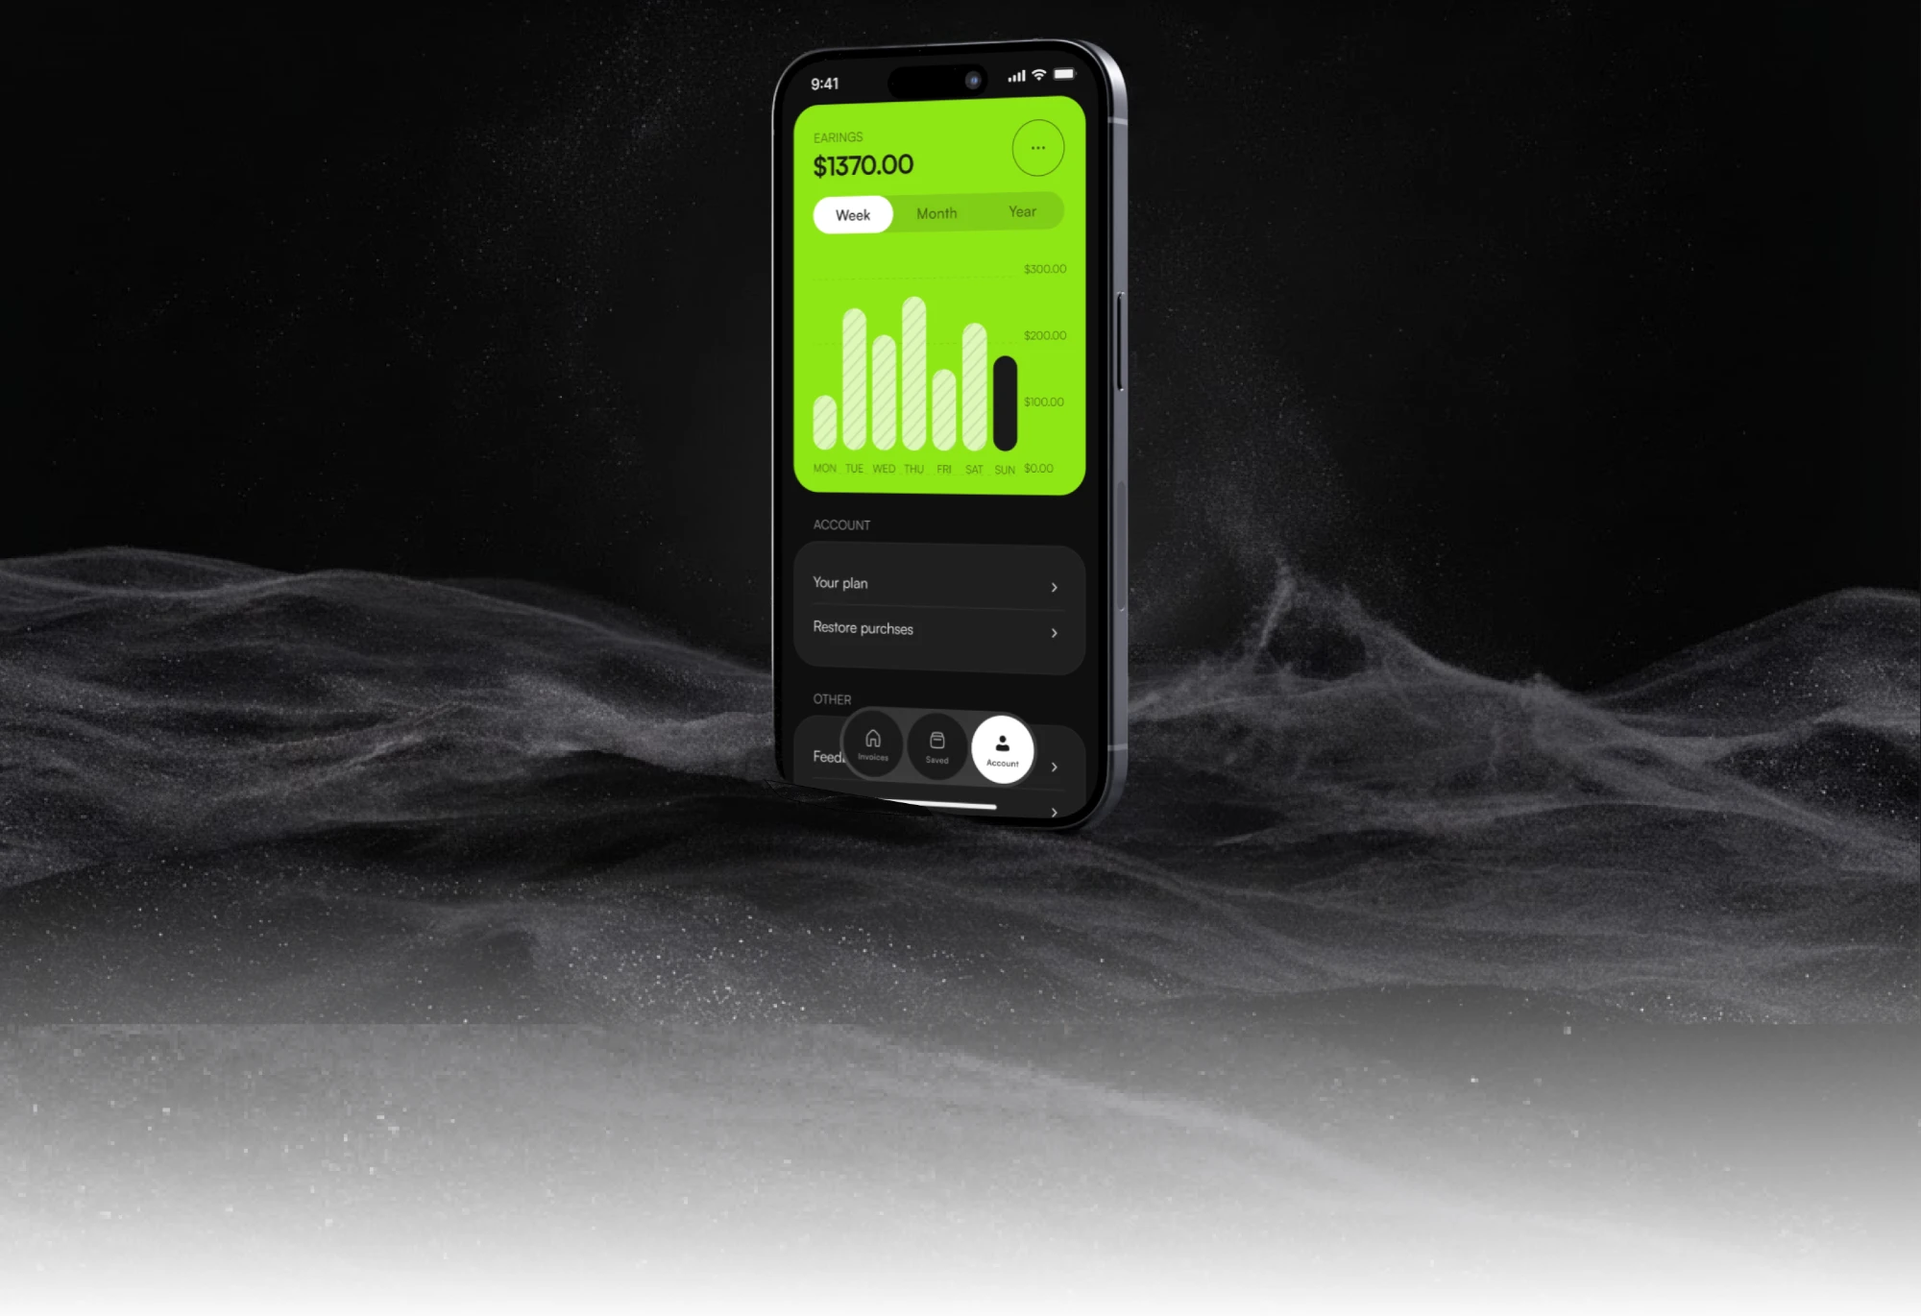
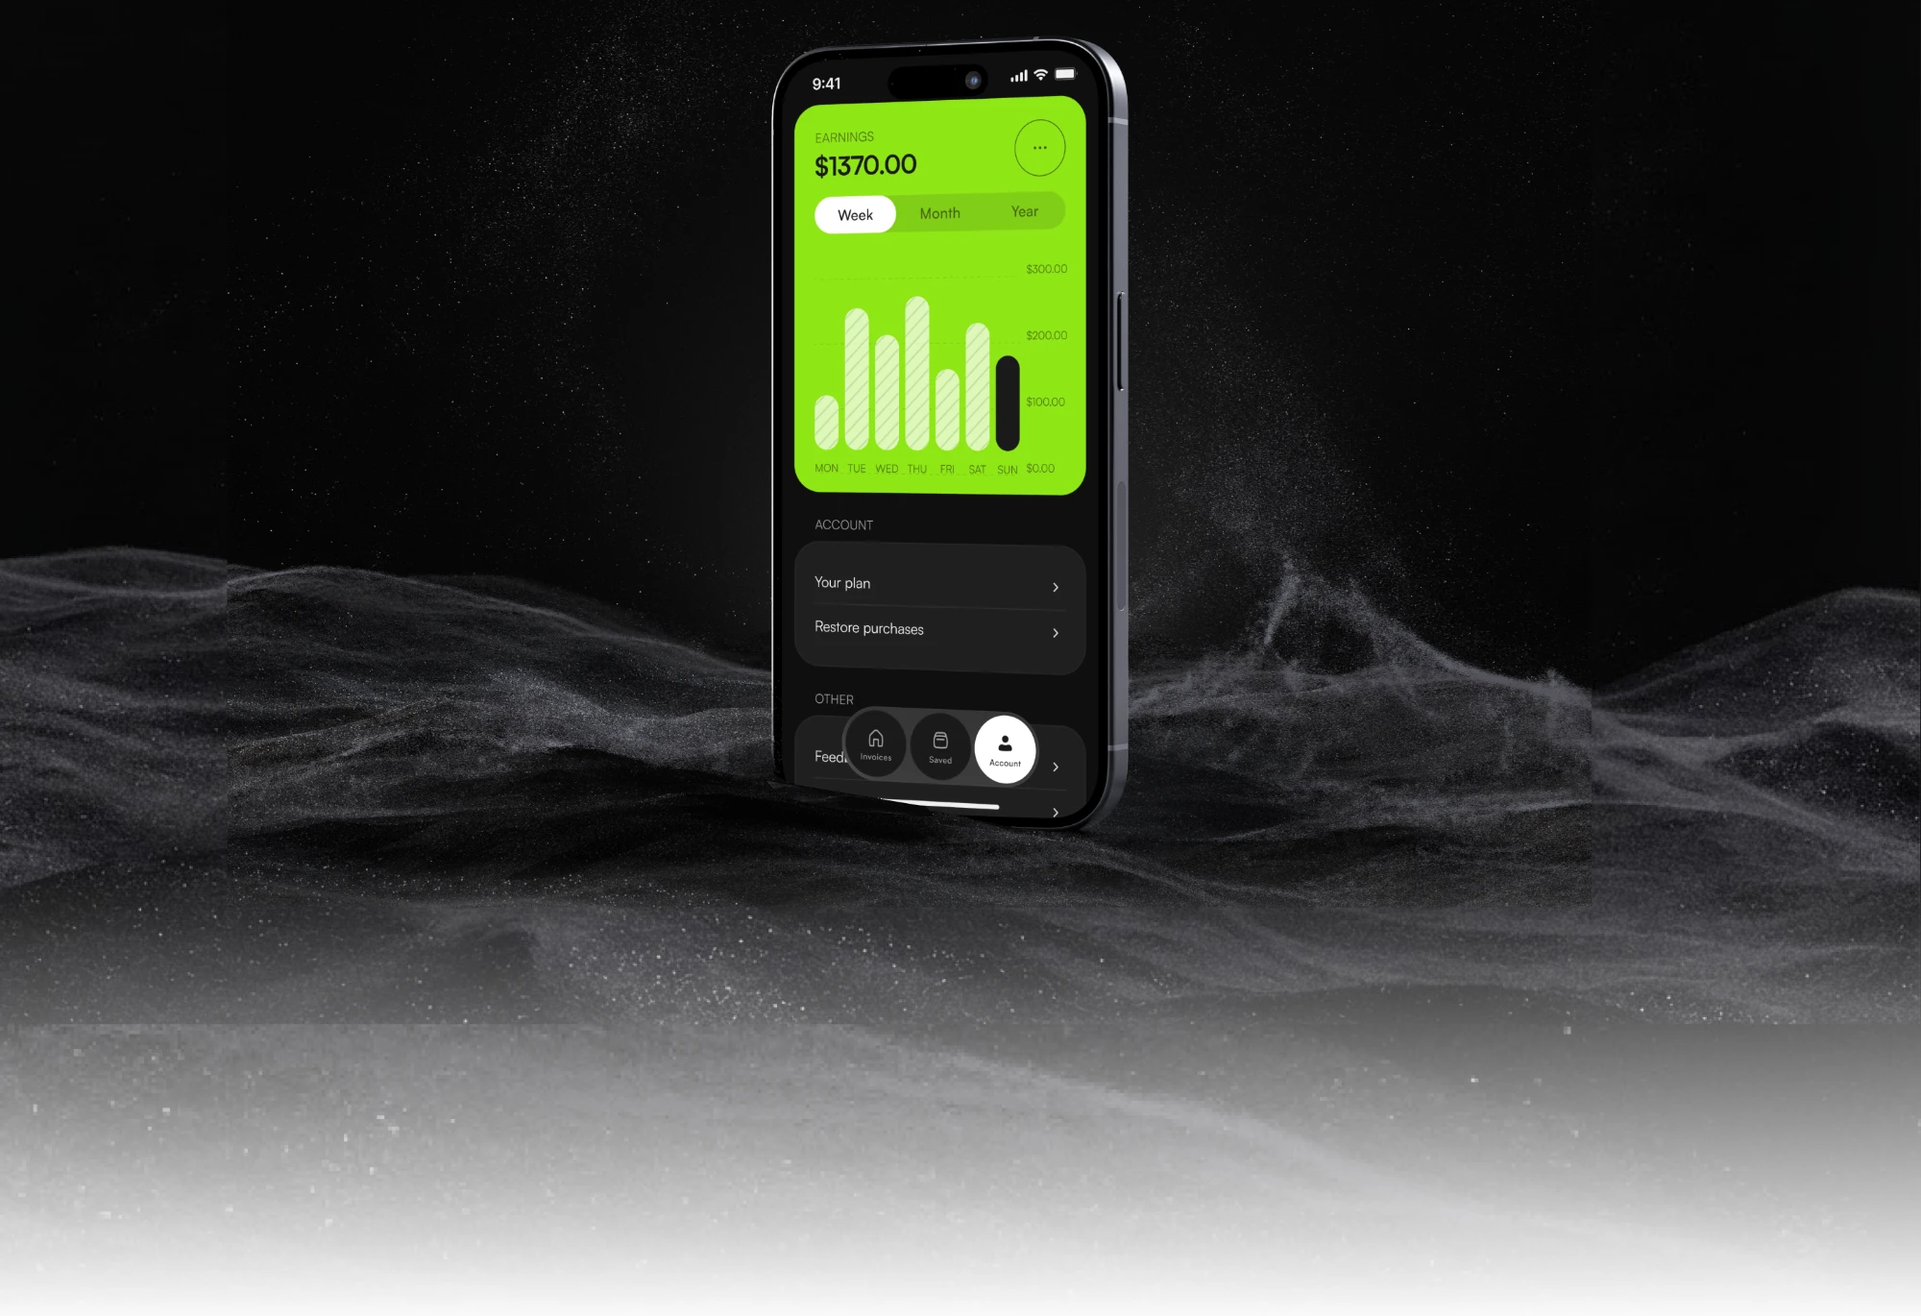
Add the Invoicer key-decision screens, card image and corrected hero
- Hero: 01-hero.webp re-exported with the copy fixed (EARNINGS, purchases).
- work.html: the Invoicer card gets its own square image, 00-card.webp.
- Key decisions: real app screenshots per decision (4 / 3 / 3), no captions under screens.
- css/case-study.css: .cs-devices--quarter keeps every screen at a quarter of the row on
  desktop and centres shorter rows; .cs-screenshot gives screenshots the iPhone's own corner
  radius, proportional to their size.
- DESIGN-SYSTEM.md documents both and the screen rows.

diff --git a/invoicer.html b/invoicer.html
@@ -191,11 +191,27 @@
           <p><em>Trade-off:</em> extra screen transitions in return for one decision at a time on a small screen.</p>
         </div>
 
-        <figure class="cs-figure">
-          <!-- PLACEHOLDER: 05-three-steps.png not exported yet (Figma frames 1:1430, 1:1805, 1:1818). -->
-          <img src="assets/images/projects/invoicer/05-three-steps.png" alt="Three iPhone screens of the invoice flow: Step 1 with a client selected, Step 2 with items and the pinned Subtotal, Tax and Total, Step 3 with dates and payment" loading="lazy" />
-          <figcaption>Step 1 client, Step 2 items, Step 3 payment.</figcaption>
-        </figure>
+        <!-- Decision 1 screens: the three steps and the Preview they lead to. Every screen row
+             on this page is .cs-devices--quarter: each screen one quarter of the row (four per
+             row), fewer screens centred, all the same size; .cs-devices turns it into the
+             existing horizontal snapping strip on a phone. No captions under screens, at
+             Kateryna's request. -->
+        <div class="cs-figure cs-wide">
+          <div class="cs-row cs-devices cs-devices--quarter">
+            <figure class="cs-figure">
+              <img src="assets/images/projects/invoicer/05-step-1-client.png" width="750" height="1624" alt="Step 1 of 3, Bill to: a saved client selected and the currency set to USD, with a Next button" loading="lazy" class="cs-screenshot" />
+            </figure>
+            <figure class="cs-figure">
+              <img src="assets/images/projects/invoicer/05-step-2-items.png" width="750" height="1624" alt="Step 2 of 3, Items: two items and an Add item button, with Subtotal, Tax and Total pinned above the Next button" loading="lazy" class="cs-screenshot" />
+            </figure>
+            <figure class="cs-figure">
+              <img src="assets/images/projects/invoicer/05-step-3-payment.png" width="750" height="1624" alt="Step 3 of 3: the invoice number and invoice date already filled in, the payment date, payment-method toggles, a payment instruction field and a Generate invoice button" loading="lazy" class="cs-screenshot" />
+            </figure>
+            <figure class="cs-figure">
+              <img src="assets/images/projects/invoicer/05-preview.png" width="750" height="1624" alt="Invoice preview: the generated invoice page, with Email and Share buttons below it" loading="lazy" class="cs-screenshot" />
+            </figure>
+          </div>
+        </div>
 
         <div class="cs-prose">
           <h3>Decision 2 — "Saved" as a reusable library</h3>
@@ -204,17 +220,42 @@
           <p><em>Trade-off:</em> one extra tab in the navigation.</p>
         </div>
 
-        <figure class="cs-figure">
-          <!-- PLACEHOLDER: 06-saved.png not exported yet (Figma frames 1:2098, 1:1508, 1:2195). -->
-          <img src="assets/images/projects/invoicer/06-saved.png" alt="Three iPhone screens: the saved clients list, the saved items list and the New Client modal" loading="lazy" />
-          <figcaption>Saved clients, saved items and the New Client modal.</figcaption>
-        </figure>
+        <!-- Decision 2 screens: the same .cs-row.cs-devices pattern as Decision 1. -->
+        <div class="cs-figure cs-wide">
+          <div class="cs-row cs-devices cs-devices--quarter">
+            <figure class="cs-figure">
+              <img src="assets/images/projects/invoicer/06-new-client-empty.png" width="750" height="1624" alt="Step 1 of 3 with a new client being entered: the name, street and city typed in, the remaining billing address and contact details fields still empty, and Add to saved switched off" loading="lazy" class="cs-screenshot" />
+            </figure>
+            <figure class="cs-figure">
+              <img src="assets/images/projects/invoicer/06-new-client-filled.png" width="750" height="1624" alt="The same new-client form filled in: billing address and contact details completed, and Add to saved switched on" loading="lazy" class="cs-screenshot" />
+            </figure>
+            <figure class="cs-figure">
+              <img src="assets/images/projects/invoicer/06-clients.png" width="750" height="1624" alt="Saved clients list: each client with a contact email, an add button, and the tab bar with Saved selected" loading="lazy" class="cs-screenshot" />
+            </figure>
+          </div>
+        </div>
 
         <div class="cs-prose">
           <h3>Decision 3 — Three tabs: Invoices, Saved, Account</h3>
           <p>Earnings live under Account, so the home tab stays on the invoice list and the create action. The first-run empty state ("No invoices yet") leads straight to creation.</p>
           <p><em>Alternative:</em> a dashboard as the home screen.</p>
           <p><em>Trade-off:</em> the earnings overview sits one tap away, under Account.</p>
+        </div>
+
+        <!-- Decision 3 screens: one per tab, in tab-bar order (Invoices, Saved, Account), the same
+             .cs-row.cs-devices pattern as Decisions 1 and 2. -->
+        <div class="cs-figure cs-wide">
+          <div class="cs-row cs-devices cs-devices--quarter">
+            <figure class="cs-figure">
+              <img src="assets/images/projects/invoicer/07-tab-invoices.png" width="750" height="1624" alt="Invoices tab: the invoice list filtered by All, Open and Paid, grouped by Today and This month, with a create button and the tab bar" loading="lazy" class="cs-screenshot" />
+            </figure>
+            <figure class="cs-figure">
+              <img src="assets/images/projects/invoicer/07-tab-saved.png" width="750" height="1624" alt="Saved tab: saved items with SKU and price, a switch between Items and Clients, and a create button" loading="lazy" class="cs-screenshot" />
+            </figure>
+            <figure class="cs-figure">
+              <img src="assets/images/projects/invoicer/07-tab-account.png" width="750" height="1624" alt="Account tab: a weekly earnings chart, the Your plan and Restore purchases rows, and the tab bar" loading="lazy" class="cs-screenshot" />
+            </figure>
+          </div>
         </div>
 
         <figure class="cs-figure cs-wide">
@@ -260,7 +301,6 @@
         <figure class="cs-figure">
           <!-- PLACEHOLDER: 09-states.png not exported yet (Figma frames 1:1620, 1:1493, 1:1857, 1:1980). -->
           <img src="assets/images/projects/invoicer/09-states.png" alt="Four iPhone screens: currency search, the drafts list, the date picker and the invoice preview" loading="lazy" />
-          <figcaption>Currencies, Drafts, Date Picker and invoice Preview.</figcaption>
         </figure>
       </div>
     </section>

diff --git a/src/invoicer.html b/src/invoicer.html
@@ -176,11 +176,27 @@
           <p><em>Trade-off:</em> extra screen transitions in return for one decision at a time on a small screen.</p>
         </div>
 
-        <figure class="cs-figure">
-          <!-- PLACEHOLDER: 05-three-steps.png not exported yet (Figma frames 1:1430, 1:1805, 1:1818). -->
-          <img src="assets/images/projects/invoicer/05-three-steps.png" alt="Three iPhone screens of the invoice flow: Step 1 with a client selected, Step 2 with items and the pinned Subtotal, Tax and Total, Step 3 with dates and payment" loading="lazy" />
-          <figcaption>Step 1 client, Step 2 items, Step 3 payment.</figcaption>
-        </figure>
+        <!-- Decision 1 screens: the three steps and the Preview they lead to. Every screen row
+             on this page is .cs-devices--quarter: each screen one quarter of the row (four per
+             row), fewer screens centred, all the same size; .cs-devices turns it into the
+             existing horizontal snapping strip on a phone. No captions under screens, at
+             Kateryna's request. -->
+        <div class="cs-figure cs-wide">
+          <div class="cs-row cs-devices cs-devices--quarter">
+            <figure class="cs-figure">
+              <img src="assets/images/projects/invoicer/05-step-1-client.png" width="750" height="1624" alt="Step 1 of 3, Bill to: a saved client selected and the currency set to USD, with a Next button" loading="lazy" class="cs-screenshot" />
+            </figure>
+            <figure class="cs-figure">
+              <img src="assets/images/projects/invoicer/05-step-2-items.png" width="750" height="1624" alt="Step 2 of 3, Items: two items and an Add item button, with Subtotal, Tax and Total pinned above the Next button" loading="lazy" class="cs-screenshot" />
+            </figure>
+            <figure class="cs-figure">
+              <img src="assets/images/projects/invoicer/05-step-3-payment.png" width="750" height="1624" alt="Step 3 of 3: the invoice number and invoice date already filled in, the payment date, payment-method toggles, a payment instruction field and a Generate invoice button" loading="lazy" class="cs-screenshot" />
+            </figure>
+            <figure class="cs-figure">
+              <img src="assets/images/projects/invoicer/05-preview.png" width="750" height="1624" alt="Invoice preview: the generated invoice page, with Email and Share buttons below it" loading="lazy" class="cs-screenshot" />
+            </figure>
+          </div>
+        </div>
 
         <div class="cs-prose">
           <h3>Decision 2 — "Saved" as a reusable library</h3>
@@ -189,17 +205,42 @@
           <p><em>Trade-off:</em> one extra tab in the navigation.</p>
         </div>
 
-        <figure class="cs-figure">
-          <!-- PLACEHOLDER: 06-saved.png not exported yet (Figma frames 1:2098, 1:1508, 1:2195). -->
-          <img src="assets/images/projects/invoicer/06-saved.png" alt="Three iPhone screens: the saved clients list, the saved items list and the New Client modal" loading="lazy" />
-          <figcaption>Saved clients, saved items and the New Client modal.</figcaption>
-        </figure>
+        <!-- Decision 2 screens: the same .cs-row.cs-devices pattern as Decision 1. -->
+        <div class="cs-figure cs-wide">
+          <div class="cs-row cs-devices cs-devices--quarter">
+            <figure class="cs-figure">
+              <img src="assets/images/projects/invoicer/06-new-client-empty.png" width="750" height="1624" alt="Step 1 of 3 with a new client being entered: the name, street and city typed in, the remaining billing address and contact details fields still empty, and Add to saved switched off" loading="lazy" class="cs-screenshot" />
+            </figure>
+            <figure class="cs-figure">
+              <img src="assets/images/projects/invoicer/06-new-client-filled.png" width="750" height="1624" alt="The same new-client form filled in: billing address and contact details completed, and Add to saved switched on" loading="lazy" class="cs-screenshot" />
+            </figure>
+            <figure class="cs-figure">
+              <img src="assets/images/projects/invoicer/06-clients.png" width="750" height="1624" alt="Saved clients list: each client with a contact email, an add button, and the tab bar with Saved selected" loading="lazy" class="cs-screenshot" />
+            </figure>
+          </div>
+        </div>
 
         <div class="cs-prose">
           <h3>Decision 3 — Three tabs: Invoices, Saved, Account</h3>
           <p>Earnings live under Account, so the home tab stays on the invoice list and the create action. The first-run empty state ("No invoices yet") leads straight to creation.</p>
           <p><em>Alternative:</em> a dashboard as the home screen.</p>
           <p><em>Trade-off:</em> the earnings overview sits one tap away, under Account.</p>
+        </div>
+
+        <!-- Decision 3 screens: one per tab, in tab-bar order (Invoices, Saved, Account), the same
+             .cs-row.cs-devices pattern as Decisions 1 and 2. -->
+        <div class="cs-figure cs-wide">
+          <div class="cs-row cs-devices cs-devices--quarter">
+            <figure class="cs-figure">
+              <img src="assets/images/projects/invoicer/07-tab-invoices.png" width="750" height="1624" alt="Invoices tab: the invoice list filtered by All, Open and Paid, grouped by Today and This month, with a create button and the tab bar" loading="lazy" class="cs-screenshot" />
+            </figure>
+            <figure class="cs-figure">
+              <img src="assets/images/projects/invoicer/07-tab-saved.png" width="750" height="1624" alt="Saved tab: saved items with SKU and price, a switch between Items and Clients, and a create button" loading="lazy" class="cs-screenshot" />
+            </figure>
+            <figure class="cs-figure">
+              <img src="assets/images/projects/invoicer/07-tab-account.png" width="750" height="1624" alt="Account tab: a weekly earnings chart, the Your plan and Restore purchases rows, and the tab bar" loading="lazy" class="cs-screenshot" />
+            </figure>
+          </div>
         </div>
 
         <figure class="cs-figure cs-wide">
@@ -245,7 +286,6 @@
         <figure class="cs-figure">
           <!-- PLACEHOLDER: 09-states.png not exported yet (Figma frames 1:1620, 1:1493, 1:1857, 1:1980). -->
           <img src="assets/images/projects/invoicer/09-states.png" alt="Four iPhone screens: currency search, the drafts list, the date picker and the invoice preview" loading="lazy" />
-          <figcaption>Currencies, Drafts, Date Picker and invoice Preview.</figcaption>
         </figure>
       </div>
     </section>

diff --git a/css/case-study.css b/css/case-study.css
@@ -361,6 +361,26 @@
   font-weight: 600;
 }
 
+/* Real app screenshots in a row (Invoicer). .cs-devices--quarter fixes every screen at one
+   quarter of the row — the size four screens get side by side — so rows of three are the same
+   size as rows of four instead of stretching wider, and centres a shorter row. Desktop only:
+   on a phone .cs-devices is already a horizontal strip of equal-width screens (see "Mobile").
+   Scoped to its own modifier because the placeholder case studies' .cs-devices rows hold five
+   framed screens, which a quarter width would overflow. */
+@media (min-width: 721px) {
+  .cs-row.cs-devices--quarter {
+    grid-auto-columns: calc((100% - 3 * var(--grid-gap)) / 4);
+    justify-content: center;
+  }
+}
+
+/* An iPhone screenshot's own display corners, proportional to its size: 39pt on a 375 × 812pt
+   screen (the 750 × 1624px exports at 2×), so 10.4% of the width / 4.8% of the height — a
+   circular corner at any rendered size. */
+.cs-screenshot {
+  border-radius: 10.4% / 4.8%;
+}
+
 /* Solution: device showcase v4 — two transparent-background frame PNGs (desktop-frame.png,
    phone-frame.png, both 2000×1536 on the same canvas, so they stack with inset: 0 and no offset
    math), sitting directly after Solution's own content, before Evolution. Supplementary

diff --git a/src/work.html b/src/work.html
@@ -78,7 +78,7 @@
 
         <article class="work-item" id="invoicer">
           <div class="work-media">
-            <img src="assets/images/projects/invoicer/01-hero.webp" width="2000" height="1370" loading="lazy" alt="" />
+            <img src="assets/images/projects/invoicer/00-card.webp" width="2000" height="2000" loading="lazy" alt="" />
           </div>
           <div class="work-content">
             <span class="case-year">2024</span>

diff --git a/work.html b/work.html
@@ -93,7 +93,7 @@
 
         <article class="work-item" id="invoicer">
           <div class="work-media">
-            <img src="assets/images/projects/invoicer/01-hero.webp" width="2000" height="1370" loading="lazy" alt="" />
+            <img src="assets/images/projects/invoicer/00-card.webp" width="2000" height="2000" loading="lazy" alt="" />
           </div>
           <div class="work-content">
             <span class="case-year">2024</span>

diff --git a/DESIGN-SYSTEM.md b/DESIGN-SYSTEM.md
@@ -472,10 +472,29 @@ existing components — no new CSS — with these differences from the reference
   section's background — not `.cs-device-showcase`, which only fits the Lexi desktop + phone
   frames. `.cs-hook--bg`'s scrim (`aspect-ratio: 1440 / 993`) and `--hook-overlap: 24%` are sized
   for the Lexi image; this one's ratio (1.460 vs 1.450) is within 1% of it, so the scrim lines up
-  with no CSS change. Also used as the image of the Invoicer card on `work.html`.
+  with no CSS change. The Invoicer card on `work.html` has its own square image,
+  `00-card.webp` (2000 × 2000, the same phone without the fade), since the card shows a 1:1 crop.
 - **Quick facts** has four rows (role, format, platform, duration); Context is prose only.
 - **Key decisions:** each decision is a `.cs-prose` block (an `h3`, the text, *Alternative* and
-  *Trade-off* lines) followed by its figure, all in one `.cs-body`.
+  *Trade-off* lines) followed by its screens, all in one `.cs-body`. Each decision's screens are
+  real app screenshots (750 × 1624, an iPhone at 2×) in a `.cs-row.cs-devices.cs-devices--quarter`
+  inside a `div.cs-figure.cs-wide`, **with no captions under screens**, at Kateryna's request:
+  - Decision 1: `05-step-1-client.png`, `05-step-2-items.png`, `05-step-3-payment.png`,
+    `05-preview.png` (the Preview sits here at Kateryna's request, though the brief's image
+    table lists it under IMG 09).
+  - Decision 2: `06-new-client-empty.png`, `06-new-client-filled.png`, `06-clients.png`.
+  - Decision 3: `07-tab-invoices.png`, `07-tab-saved.png`, `07-tab-account.png` (tab-bar
+    order), above the IA diagram placeholder.
+- **`.cs-devices--quarter`** (new, `css/case-study.css`): on desktop every screen is one quarter
+  of the row — 256px on the 1120px grid, the size four screens get side by side — so rows of
+  three match rows of four instead of stretching to 352px, and a shorter row is centred
+  (`justify-content: center`; measured at 1400px: 144px either side of a row of three). On a
+  phone `.cs-devices`' own horizontal strip applies unchanged (256px screens). A modifier, not a
+  change to `.cs-devices`, because the placeholder case studies' rows hold five framed screens.
+- **`.cs-screenshot`** (new): an iPhone screenshot's display corners, `border-radius: 10.4% /
+  4.8%` — 39pt on a 375 × 812pt screen as a share of width and height, so the corner stays
+  circular and in proportion at any rendered size.
+- IMG 09's caption was removed too, since it is a row of screens.
 - **Two paths (IMG 08):** one `.cs-onb-flow` inside `.cs-onboarding` (both paths in one image,
   `08-paths-horizontal.png` / `-vertical.png`, the same `<picture>` swap as Process on the
   reference page), with no `.cs-onb-title`.
